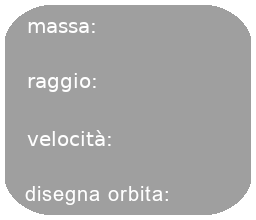
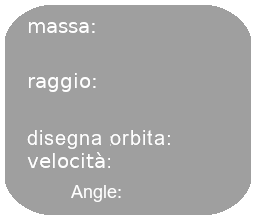
UI improvements

Changed region(s): [[0.0938, 0.5727, 0.6562, 0.7636], [0.0938, 0.8455, 0.6562, 0.9545]]

diff --git a/gui.py b/gui.py
@@ -1,7 +1,7 @@
 import pygame
 from body import Body
 import time
-from utils import load_texture, clamp, load_spritesheet, adapt_ratio, get_angle, rotate_texture
+from utils import load_texture, clamp, load_spritesheet, adapt_ratio, get_angle, rotate_texture, aconvert
 
 TIME_UPDATE_EVENT = pygame.USEREVENT+1
 
@@ -380,7 +380,7 @@ class AngleSelector(UIElement):
         '''
         if self.is_on_element(mouse_pos):
             # y flipped because of pygame's coordinate system, where y increases going downwards
-            self.set_angle(get_angle((mouse_pos[0]-self.arrow_rect.center[0], -mouse_pos[1]+self.arrow_rect.center[1]))) 
+            self.set_angle(get_angle((mouse_pos[0]-self.arrow_rect.center[0], mouse_pos[1]-self.arrow_rect.center[1]))) 
             return True
         return False
 
@@ -498,13 +498,16 @@ class PlanetUI(UIElement):
                                     adapt_ratio((216, 40), self.ratio), 
                                     max_len=10, 
                                     parent=self, letter_width=0.75)
-        self.vel_textbox = TextBox(adapt_ratio((117, 110), self.ratio),
+        self.vel_textbox = TextBox(adapt_ratio((117, 130), self.ratio),
                                     adapt_ratio((125,20), self.ratio),
                                     max_len=14, parent=self,
                                     enable_on_click=True, letter_width=0.9)
-        self.orbit_tickbox = Tickbox(adapt_ratio((175,160), self.ratio), 
+        self.angle_textbox = TextBox(adapt_ratio((125,155), self.ratio),
+                                     adapt_ratio((60,25), self.ratio),
+                                     max_len=3, parent=self, enable_on_click=True)
+        self.orbit_tickbox = Tickbox(adapt_ratio((175,110), self.ratio), 
                                     adapt_ratio((18,18), self.ratio), parent=self)
-        self.vangle_setter = AngleSelector((30,130), (25,25), parent=self) # velocity angle setter
+        self.vangle_setter = AngleSelector((30,150), (25,25), parent=self) # velocity angle setter
         self.body = None
         self.body_path = []
         self.dragging = False # whether the selected body is being dragged
@@ -517,32 +520,48 @@ class PlanetUI(UIElement):
             it might not be updated due to an optimization technique.
         '''
         self.vel_text = super().font.render(self.body.get_vel_str(), False, (255,255,255))
+        self.angle_text = super().font.render(self.body.get_angle_str(), False, (255,255,255))
         # only update the text of the mass if it has been changed
         if self.mass_bar.enabled or 'mass_text' not in dir(self) or force_update: 
             self.mass_text = super().font.render(self.body.get_mass_str(), False, (255,255,255))
 
-    def on_click(self, mouse_pos) -> None:
-        self.name_textbox.on_click(mouse_pos)
+    def __widgets_click(self, mouse_pos) -> None:
+        '''
+            Lets every widget handle a click event in the given mouse position, and updates their
+            corresponding values in the self.body instance
+        '''
         self.orbit_tickbox.on_click(mouse_pos)
-        
-        # the angle of the velocity has been changed
+
+        # PROGRESS BARS AND TICKBOXES     
         if self.vangle_setter.on_click(mouse_pos):
             self.body.set_vel_angle(self.vangle_setter.angle)
-        # if the mass' progress bar value was changed update it
         if self.mass_bar.on_click(mouse_pos):
             self.body.set_mass(self.mass_bar.val)
-        # if the radius' progress bar value was changed update it
         if self.radius_bar.on_click(mouse_pos):
             self.body.radius = int(self.radius_bar.val)
         
-        # if the velocity has been typed in apply the changes
+        # TEXTBOXES
+        if self.name_textbox.on_click(mouse_pos):
+            self.body.name = self.name_textbox.content   
         if self.vel_textbox.on_click(mouse_pos):
             self.body.set_vel_str(self.vel_textbox.content)
             self.vel_text = super().font.render(self.body.get_vel_str(), False, (255,255,255))
-        # if the mass has been typed in apply the changes
         if self.mass_textbox.on_click(mouse_pos):
             self.body.set_mass_str(self.mass_textbox.content)
             self.mass_text = super().font.render(self.body.get_mass_str(), False, (255,255,255)) # UPDATE THE MASS' TEXT
+        if self.angle_textbox.on_click(mouse_pos):
+            # if the textbox was disabled
+            if not self.angle_textbox.enabled:
+                rad_angle = aconvert(int(self.angle_textbox.content)%360, rad_to_deg=False)
+                self.body.set_vel_angle(rad_angle)
+                self.angle_text = super().font.render(self.body.get_angle_str(), False, (255,255,255))
+                self.vangle_setter.set_angle(rad_angle)
+            else: # the angle textbox was activated
+                self.angle_textbox.set_text(str(aconvert(get_angle(self.body.vel))))
+
+    def on_click(self, mouse_pos) -> None:
+        self.__widgets_click(mouse_pos) # let every widget handle the clicks
+
         # make sure the UI keeps rendering it the click was outside its region but inside the name textbox's
         if self.name_textbox.active: 
             self.enabled = True
@@ -552,15 +571,10 @@ class PlanetUI(UIElement):
                 self.click_start = time.time()
 
     def handle_event(self, event) -> None:
-        if self.name_textbox.handle_event(event):
-            self.body.name = self.name_textbox.content
-            print(self.body.name)
+        self.name_textbox.handle_event(event)
+        self.angle_textbox.handle_event(event)
         self.mass_textbox.handle_event(event)
         self.vel_textbox.handle_event(event)
-        '''
-        if self.name_textbox.active and event.type == pygame.KEYDOWN: # a letter has been typed in the name field
-            self.body.name = self.name_textbox.content
-        '''
 
     def on_mouse_motion(self, mouse_pos) -> None:
         if self.dragging:
@@ -579,14 +593,14 @@ class PlanetUI(UIElement):
             if self.vangle_setter.on_mouse_motion(mouse_pos):
                 self.body.set_vel_angle(self.vangle_setter.angle)
 
-    def on_click_release(self, mouse_pos, *args) -> None:
+    def on_click_release(self, mouse_pos, mouse_vel) -> None:
         self.orbit_tickbox.on_click_release(mouse_pos)
         if self.dragging:
             self.dragging = False
             # looks dumb but this way I don't have to import numpy just for this one line
             if time.time() - self.click_start > self.MIN_CLICK_THROW_TIME:
-                if self.MIN_THROW_VEL < (args[0][0]**2+args[0][1]**2)**(0.5) < self.MAX_THROW_VEL: 
-                    self.body.set_vel(args[0]) # args[1] is the displacement of the mouse from the last frame
+                if self.MIN_THROW_VEL < (mouse_vel[0]**2+mouse_vel[1]**2)**(0.5) < self.MAX_THROW_VEL: 
+                    self.body.set_vel(mouse_vel) # args[1] is the displacement of the mouse from the last frame
 
     def log_body(self, body: Body, mouse_pos=None) -> None:
         mouse_pos = mouse_pos if mouse_pos is not None else pygame.mouse.get_pos()
@@ -605,6 +619,8 @@ class PlanetUI(UIElement):
         self.name_textbox.set_text(self.body.name)
         self.mass_textbox.set_text(self.body.get_mass_str()[:-3]) # the [:-3] part is to remove the "kg" text
         self.vel_textbox.set_text(self.body.get_vel_str()[:-7]) # the [:-7] part is to remove the " km/day" text
+        self.vangle_setter.set_angle(get_angle(body.vel))
+        self.angle_textbox.set_text(body.get_angle_str())
         self.orbit_tickbox.set_ticked(False)
         self.body_path = []
 
@@ -615,9 +631,10 @@ class PlanetUI(UIElement):
             self.body_path.append((int(self.body.pos[0]), int(self.body.pos[1])))
 
     def render(self, surf: pygame.Surface) -> None:
-        super().render(surf)
         if self.enabled:
             self.update_texts()
+            self.body.render_velocity(surf)
+            super().render(surf) # make sure the background image is rendered after the velocity vector
 
             if self.orbit_tickbox.ticked:
                 for pos in self.body_path:
@@ -625,12 +642,13 @@ class PlanetUI(UIElement):
 
             self.mass_bar.render(surf)
             self.radius_bar.render(surf)
-            surf.blit(self.vel_text, (self.pos[0]+int(117*self.ratio[0]), self.pos[1]+int(115*self.ratio[1]))) # velocity text
+            surf.blit(self.vel_text, (self.pos[0]+int(117*self.ratio[0]), self.pos[1]+int(135*self.ratio[1]))) # velocity text
             surf.blit(self.mass_text, (self.pos[0]+int(100*self.ratio[0]), self.pos[1]+int(17*self.ratio[1])))
+            surf.blit(self.angle_text, (self.pos[0]+int(125*self.ratio[0]), self.pos[1]+int(160*self.ratio[1])))
 
-            self.body.render_velocity(surf)
             self.name_textbox.render(surf)
             self.orbit_tickbox.render(surf)    
             self.mass_textbox.render(surf)
             self.vel_textbox.render(surf)
             self.vangle_setter.render(surf)
+            self.angle_textbox.render(surf)

diff --git a/utils.py b/utils.py
@@ -1,3 +1,4 @@
+from operator import invert
 import pygame
 import numpy as np
 import os
@@ -26,7 +27,7 @@ def draw_vector(surf: pygame.Surface, vector: np.ndarray, scale: float, pos) -> 
         Draws the vector vector on the surface surf with a length of scale in the (x,y) position pos
     '''
     global arrow_vertices
-    angle = get_angle((vector[0], -vector[1])) # the y component is flipped because of pygame's coordinate system
+    angle = get_angle((vector[0], vector[1])) # the y component is flipped because of pygame's coordinate system
     poly = arrow_vertices*min(np.log(scale*2+1),30) # scale the polygon based on gravitational force
     poly = rotate(poly, angle) # apply the correct rotation
     poly += pos # translate to the right position
@@ -72,14 +73,38 @@ def adapt_ratio(vals: tuple, ratio: tuple) -> tuple:
     '''
     return (int(vals[0]*ratio[0]), int(vals[1]*ratio[1]))
 
-def get_angle(vector):
+def get_angle(vector, invert_y=True):
     '''
-        Returns the angle made by a vector, it goes from -π to π
+        Returns the angle made by a vector, it goes from -π to π.\n
+        vector -> the vector to which the angle corresponds.\n
+        invert_y -> whether to invert the y axis in the vector (to adapt to pygame's
+        coordinate system).
     '''
-    angle = np.arccos(np.clip(vector[0]/np.linalg.norm(vector), -1.0, 1.0))
-    if vector[1] < 0:
+    vec_length = np.linalg.norm(vector)
+    if vec_length == 0:
+        return 0
+    angle = np.arccos(np.clip(vector[0]/vec_length, -1.0, 1.0))
+    # 1-2*int(invert_y) is 1 if invert_y is False, and -1 otherwise
+    if vector[1]*(1-2*int(invert_y)) < 0:
         return -angle
     return angle
+
+# "angle convert"
+def aconvert(angle: float, rad_to_deg=True) -> int:
+    '''
+        Converts an angle from radians to degrees and viceversa
+        if rad_to_deg is True this takes in an angle from -π to π and returns its representation as a degree from 0 to 360.\n
+        if rad_to_deg is False this takes an angle from 0 to 360 and returns its representation as a radian value from -π to π
+    '''
+    if rad_to_deg: # convert [-π,π] -> [0,360]
+        deg_angle = angle*180/np.pi
+        deg_angle += 360 if deg_angle < 0 else 0
+        return round(deg_angle)
+
+    # covert [0,360] -> [-π,π]
+    rad_angle = angle*np.pi/180
+    rad_angle += -2*np.pi if rad_angle > np.pi else 0
+    return rad_angle
 
 def rotate_texture(texture: pygame.Surface, angle: float, topleft_pos=(0,0)):
     '''

diff --git a/body.py b/body.py
@@ -95,7 +95,7 @@ class Body:
 
     def set_vel_angle(self, angle: float) -> None:
         '''
-            Sets the angle of the velocity to the value of angle
+            Sets the angle of the velocity to the value of angle (which should be in radians)
         '''
         self.vel = np.array([np.cos(angle), -np.sin(angle)])*np.linalg.norm(self.vel)
 
@@ -111,6 +111,13 @@ class Body:
             notation in kilograms
         '''
         return ("%.3g" % self.get_mass_kg()).replace("e", "*10^").replace("+","") + " kg"
+
+    def get_angle_str(self) -> str:
+        '''
+            Returns a string with the number of degrees representing the rotation
+            of the velocity vector of the body
+        '''
+        return str(round(aconvert(get_angle(self.vel))))
 
     def get_vel_str(self) -> str:
         '''
